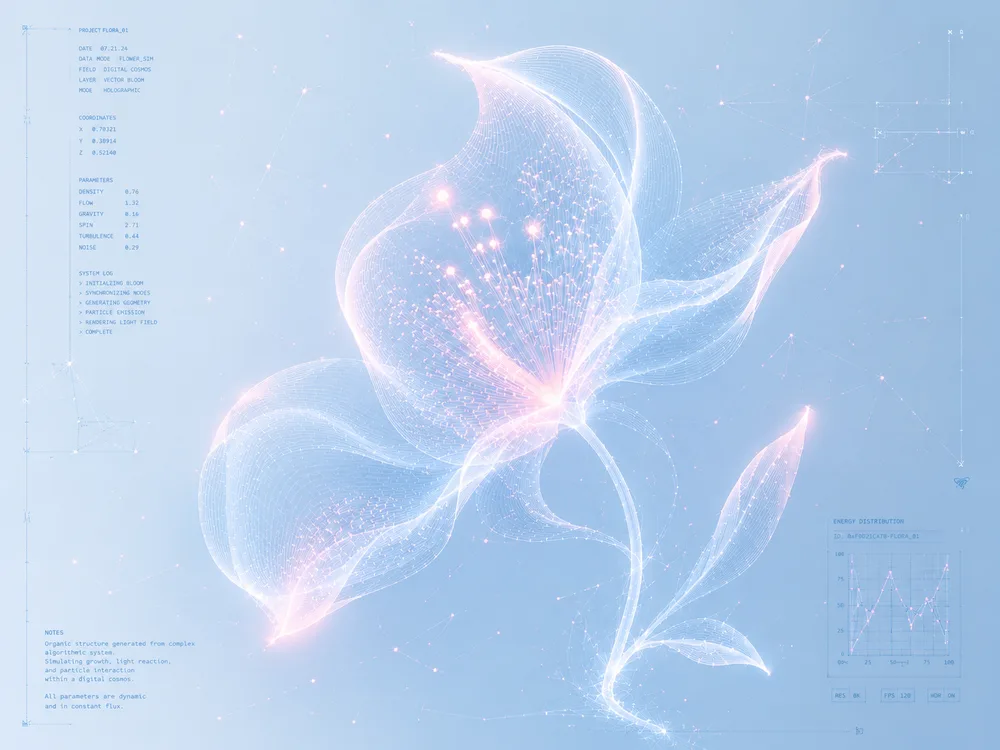
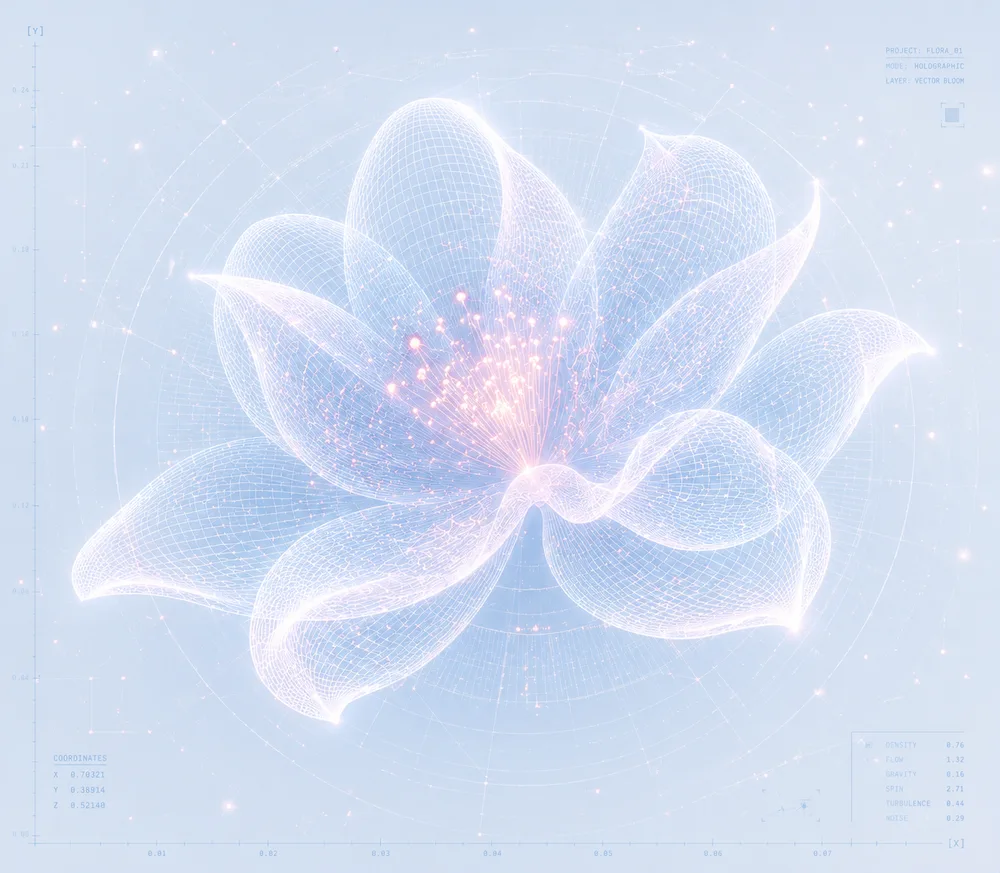
Animated flora (new lotus pair + breathing loop); fluid moving Venn gradients; Now-building left-align + drifting gradient aurora

diff --git a/styles.css b/styles.css
@@ -294,14 +294,19 @@ body {
   /* soft vignette so the image edges dissolve into the card */
   -webkit-mask: radial-gradient(125% 120% at 50% 44%, #000 52%, transparent 100%);
           mask: radial-gradient(125% 120% at 50% 44%, #000 52%, transparent 100%);
-  transition: opacity .5s var(--ease), transform 6s var(--ease);
+  transition: opacity .5s var(--ease);
+  animation: floraBloom 16s ease-in-out infinite;   /* living, looping bloom */
 }
+@keyframes floraBloom {
+  0%, 100% { transform: scale(1.04) rotate(-0.7deg); }
+  50%      { transform: scale(1.11) rotate(1deg); }
+}
+.card--flora:hover .flora { animation-duration: 8s; }   /* quicken on hover */
 /* dark bloom: desaturate + dim + screen-blend so its dark bg melts into the card */
 .flora--dark { filter: saturate(.72) brightness(.92); mix-blend-mode: screen; }
 .flora--light { opacity: 0; }
 :root[data-theme="light"] .flora--dark { opacity: 0; }
 :root[data-theme="light"] .flora--light { opacity: 1; }
-.card--flora:hover .flora { transform: scale(1.05); }
 
 /* ---------- stats ---------- */
 .card--stats { display: flex; flex-direction: column; }
@@ -331,6 +336,14 @@ body {
 .venn-core { animation: vennCore 7s ease-in-out infinite; }
 @keyframes vennBreath { 0%, 100% { opacity: .82; } 50% { opacity: 1; } }
 @keyframes vennCore { 0%, 100% { opacity: .55; r: 2.2px; } 50% { opacity: 1; r: 2.8px; } }
+/* fluid, moving color blooms — each drifts on its own phase */
+.venn-glow circle { transform-box: fill-box; transform-origin: center; }
+.venn-glow circle:nth-of-type(1) { animation: floraDriftA 11s ease-in-out infinite; }
+.venn-glow circle:nth-of-type(2) { animation: floraDriftB 14s ease-in-out infinite; }
+.venn-glow circle:nth-of-type(3) { animation: floraDriftC 12s ease-in-out infinite; }
+@keyframes floraDriftA { 0%,100% { transform: translate(0,0) scale(1); } 33% { transform: translate(5px,-4px) scale(1.06); } 66% { transform: translate(-4px,3px) scale(.97); } }
+@keyframes floraDriftB { 0%,100% { transform: translate(0,0) scale(1); } 33% { transform: translate(-5px,-3px) scale(1.05); } 66% { transform: translate(4px,5px) scale(.96); } }
+@keyframes floraDriftC { 0%,100% { transform: translate(0,0) scale(1); } 33% { transform: translate(4px,5px) scale(1.07); } 66% { transform: translate(-5px,-2px) scale(1); } }
 .roles-legend { list-style: none; display: flex; flex-direction: row; justify-content: center; align-items: flex-start; gap: 10px; width: 100%; }
 .roles-legend li { display: flex; flex-direction: column; align-items: center; text-align: center; gap: 6px; flex: 1 1 0; min-width: 0; }
 .roles-legend .dot {
@@ -380,18 +393,33 @@ body {
 :root[data-theme="light"] .mode-ic--sun  { opacity: 0; }
 
 /* ---------- now building ---------- */
-.card--now { display: flex; align-items: center; justify-content: center; text-decoration: none; color: inherit; cursor: pointer; }
+.card--now { display: flex; flex-direction: column; justify-content: center; align-items: stretch; text-decoration: none; color: inherit; cursor: pointer; }
 .card--now .card-label { position: absolute; top: 18px; left: 18px; z-index: 3; }
+/* drifting gradient aurora inside the card */
+.card--now .now-aurora {
+  position: absolute; inset: 0; z-index: 0; border-radius: inherit; overflow: hidden;
+  pointer-events: none; opacity: .5; transition: opacity .5s var(--ease);
+  background:
+    radial-gradient(38% 62% at 22% 42%, color-mix(in srgb, var(--accent) 36%, transparent), transparent 72%),
+    radial-gradient(42% 56% at 78% 62%, color-mix(in srgb, var(--accent-3) 32%, transparent), transparent 72%);
+  background-size: 180% 180%, 180% 180%; background-repeat: no-repeat;
+  animation: nowAurora 16s ease-in-out infinite;
+}
+@keyframes nowAurora {
+  0%, 100% { background-position: 0% 30%, 100% 70%; }
+  50%      { background-position: 90% 60%, 8% 42%; }
+}
+.card--now:hover .now-aurora { opacity: .92; }
 .now-arrow {
   position: absolute; top: 16px; right: 18px; z-index: 3;
   font-size: 27px; line-height: 1; color: var(--muted);
   transition: transform .35s var(--ease), color .35s var(--ease);
 }
 .card--now:hover .now-arrow { transform: translate(4px, -4px); color: var(--accent); }
-.now-body { display: flex; align-items: center; justify-content: center; gap: 12px; text-align: center; }
+.now-body { display: flex; flex-direction: column; align-items: flex-start; gap: 7px; position: relative; z-index: 2; }
 .pulse {
-  width: 11px; height: 11px; border-radius: 50%; background: var(--accent); flex: none;
-  align-self: center;
+  width: 11px; height: 11px; border-radius: 50%; background: var(--accent);
+  display: inline-block; vertical-align: middle; margin: -4px 11px 0 0;
   box-shadow: 0 0 0 0 color-mix(in srgb, var(--accent) 60%, transparent);
   animation: pulse 2s infinite;
 }
@@ -410,7 +438,7 @@ body {
   -webkit-text-fill-color: transparent; color: transparent;
   animation: monaFlow 8s linear infinite;
 }
-.now-sub { font-size: 12.5px; color: var(--muted); margin-top: 5px; }
+.now-sub { font-size: 12.5px; color: var(--muted); margin-top: 0; }
 
 /* ---------- clients marquee ---------- */
 .card--clients { display: flex; flex-direction: column; }

diff --git a/index.html b/index.html
@@ -160,14 +160,12 @@
 
         <!-- NOW / BUILDING (links to live case study) -->
         <a class="card card--now" style="--c:4; --r:2;" href="https://aria-case-study-site.vercel.app/" target="_blank" rel="noopener">
+          <span class="now-aurora" aria-hidden="true"></span>
           <span class="card-label">Now building</span>
           <span class="now-arrow" aria-hidden="true">↗</span>
           <div class="now-body">
-            <span class="pulse" aria-hidden="true"></span>
-            <div>
-              <div class="now-title">Aria — AI Underwriting Agent</div>
-              <div class="now-sub">React + Claude + Figma Craft</div>
-            </div>
+            <div class="now-title"><span class="pulse" aria-hidden="true"></span>Aria — AI Underwriting Agent</div>
+            <div class="now-sub">React + Claude + Figma Craft</div>
           </div>
         </a>
 